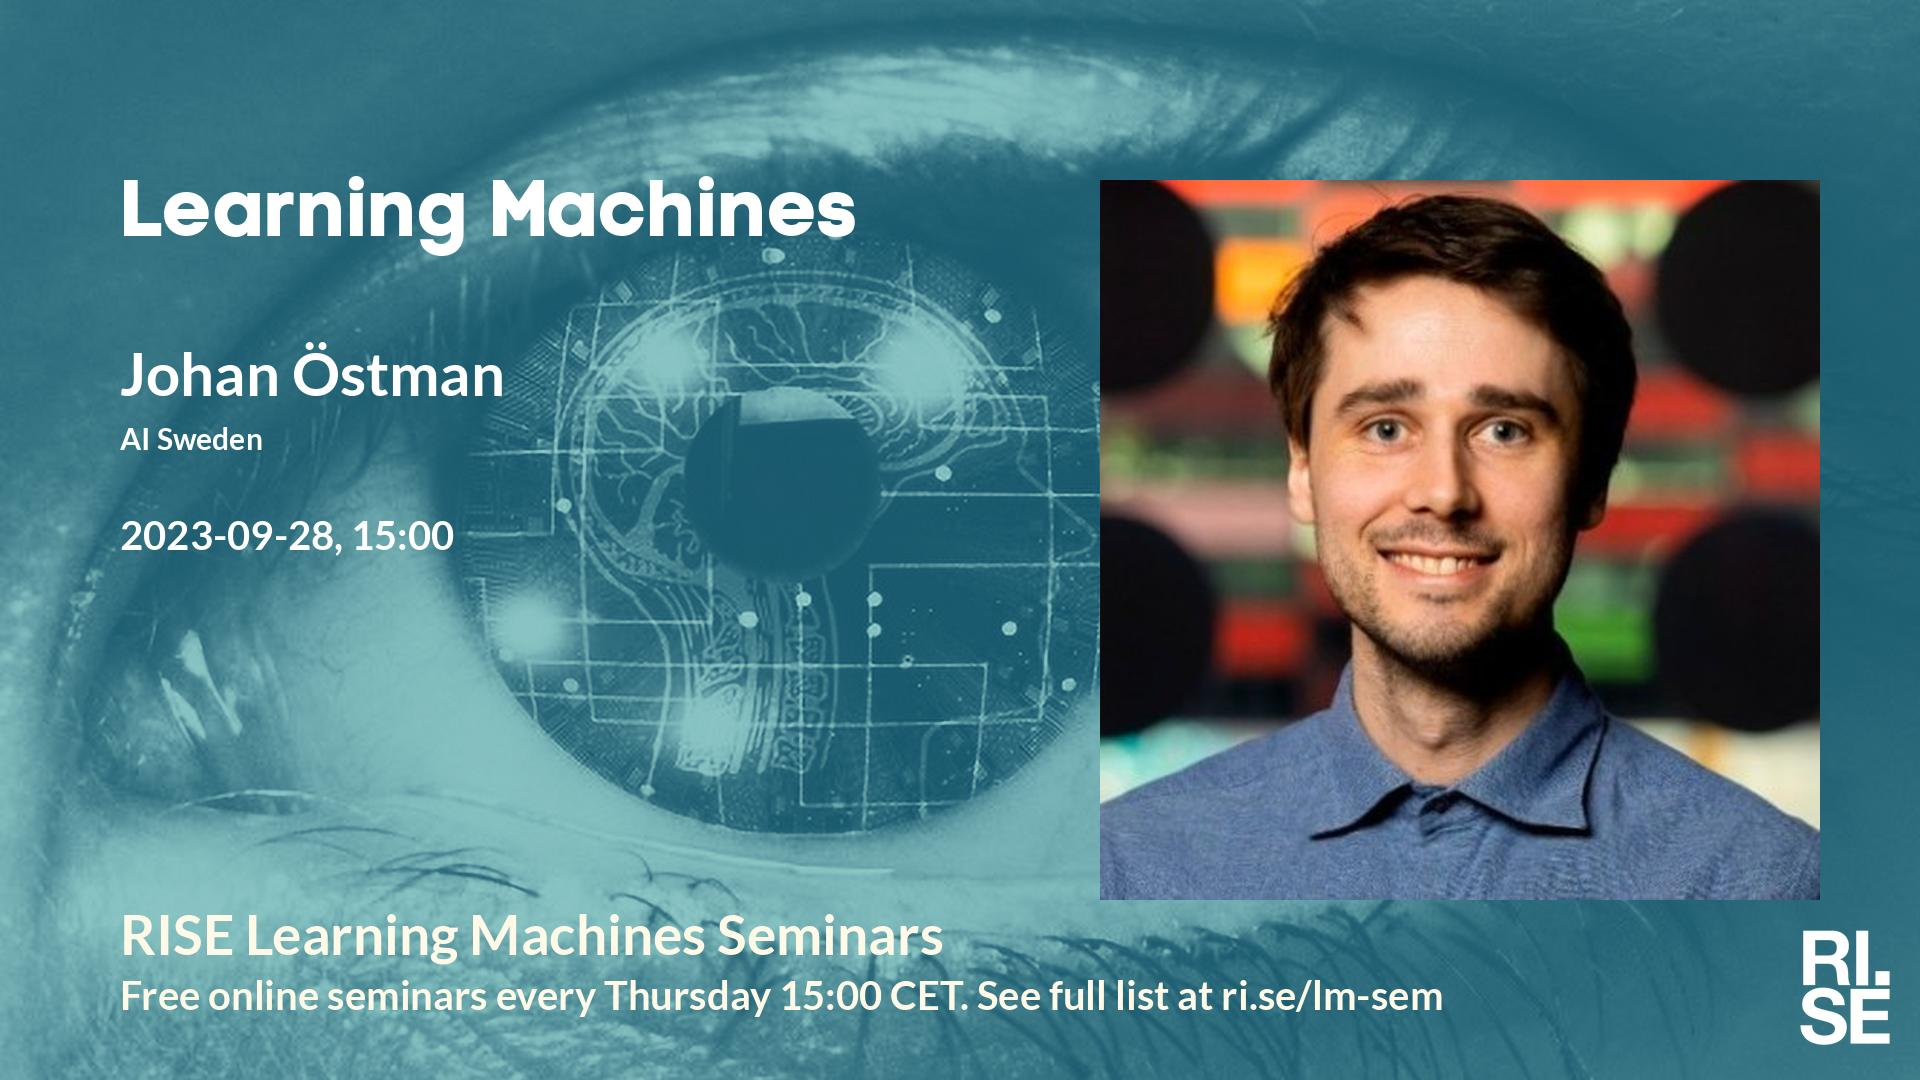
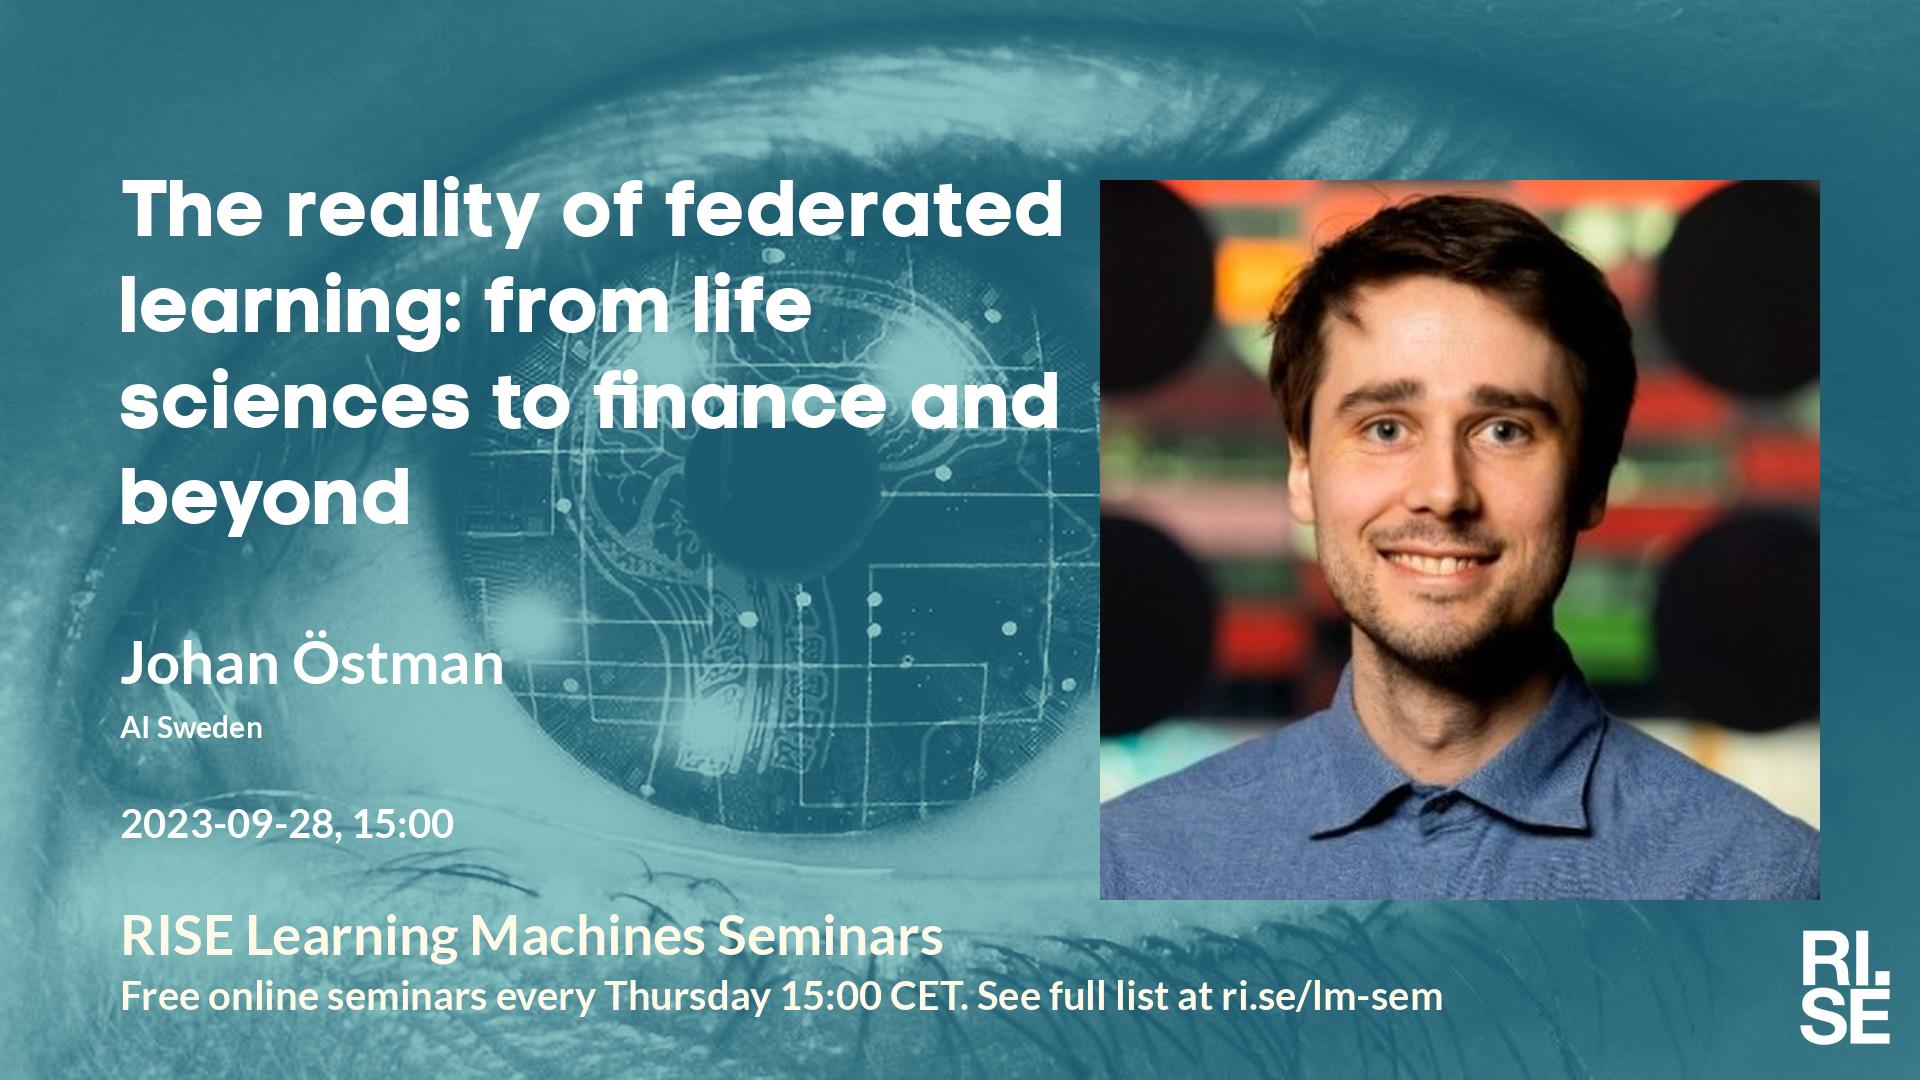
Updated plan on web site.

Changed region(s): [[0.0625, 0.1528, 0.5625, 0.5194], [0.0625, 0.5806, 0.2812, 0.7028], [0.0625, 0.7333, 0.25, 0.7944]]

diff --git a/lm/index.md b/lm/index.md
@@ -5,15 +5,14 @@ metatags: "<meta name=\"robots\" content=\"noindex,nofollow\" />"
 <style type="text/css" scoped>
 td, th {border: 1px solid #ccc; padding: 0.6em;}
 table {border-collapse: collapse;}
-</style># Learning Machines Plan 2023-09-14
+</style># Learning Machines Plan 2023-09-22
 
 | date | speaker                                   | photo | shareable | meeting backdrop | youtube thumbnail | <a title="Speaker, Title, Abstract, Bio, Photo. Strikethrough means we don't have it yet.">comment</a>        |
 | ---- | ----------------------------------------- | ----- | ----- | ----- | ----- | -------------- |
-|  2023-08-31  |  [Zahra Taghiyar Renan, Halmstad University](2023-08-31.md)  |  [photo](photo-zahra-taghiyar-renan.jpg)  |  [social media ](social-media-zahra-taghiyar-renan.jpg)  |  [meeting backdrop ](meeting-backdrop-zahra-taghiyar-renan.jpg)  |  [youtube thumbnail ](youtube-thumbnail-zahra-taghiyar-renan.jpg)  |  STABP  |
 |  2023-09-07  |  [Adam Breitholtz, Chalmers University of Technology](2023-09-07.md)  |    |  [social media ](social-media-adam-breitholtz.jpg)  |  [meeting backdrop ](meeting-backdrop-adam-breitholtz.jpg)  |  [youtube thumbnail ](youtube-thumbnail-adam-breitholtz.jpg)  |  STAB~~P~~  |
 |  2023-09-14  |  [Virginia Smith, CMU](2023-09-14.md)  |  [photo](photo-virginia-smith.jpg)  |  [social media ](social-media-virginia-smith.jpg)  |  [meeting backdrop ](meeting-backdrop-virginia-smith.jpg)  |  [youtube thumbnail ](youtube-thumbnail-virginia-smith.jpg)  |  STABP  |
 |  2023-09-21  |  [Nico Lang, University of Copenhagen](2023-09-21.md)  |  [photo](photo-nico-lang.jpg)  |  [social media ](social-media-nico-lang.jpg)  |  [meeting backdrop ](meeting-backdrop-nico-lang.jpg)  |  [youtube thumbnail ](youtube-thumbnail-nico-lang.jpg)  |  STABP  |
-|  2023-09-28  |  [Johan Östman, AI Sweden](2023-09-28.md)  |  [photo](photo-johan-ostman.jpg)  |  [social media ](social-media-johan-ostman.jpg)  |  [meeting backdrop ](meeting-backdrop-johan-ostman.jpg)  |  [youtube thumbnail ](youtube-thumbnail-johan-ostman.jpg)  |  S~~TAB~~P  |
+|  2023-09-28  |  [Johan Östman, AI Sweden](2023-09-28.md)  |  [photo](photo-johan-ostman.jpg)  |  [social media ](social-media-johan-ostman.jpg)  |  [meeting backdrop ](meeting-backdrop-johan-ostman.jpg)  |  [youtube thumbnail ](youtube-thumbnail-johan-ostman.jpg)  |  STABP  |
 |  2023-10-05  |  [Klaus-Robert Müller, TU Berlin](2023-10-05.md)  |  [photo](photo-klaus-robert-muller.jpg)  |  [social media ](social-media-klaus-robert-muller.jpg)  |  [meeting backdrop ](meeting-backdrop-klaus-robert-muller.jpg)  |  [youtube thumbnail ](youtube-thumbnail-klaus-robert-muller.jpg)  |  STABP  |
 | <span style="color:grey"> 2023-10-12 </span> | <span style="color:grey"> Liane G. ? Silvia Z. ? Giulio B. ? </span> | <span style="color:grey">  </span> | <span style="color:grey">  </span> | <span style="color:grey">  </span> | <span style="color:grey">  </span> | <span style="color:grey"> ?~~TABP~~ </span> |
 |  2023-10-19  |  [Valentin De Bortoli, Google Deepmind](2023-10-19.md)  |  [photo](photo-valentin-de-bortoli.jpg)  |  [social media ](social-media-valentin-de-bortoli.jpg)  |  [meeting backdrop ](meeting-backdrop-valentin-de-bortoli.jpg)  |  [youtube thumbnail ](youtube-thumbnail-valentin-de-bortoli.jpg)  |  S~~TAB~~P  |

diff --git a/lm/2023-09-28.md b/lm/2023-09-28.md
@@ -4,13 +4,19 @@ metatags: "<meta name=\"robots\" content=\"noindex,nofollow\" />"
 ---
 Welcome to this week's Learning Machines seminar.
 
-**Title:** N/A
+**Title:** The reality of federated learning: from life sciences to finance and beyond
 
 **Speaker:** Johan Östman, AI Sweden
 
-**Abstract:** N/A
+**Abstract:** Federated learning is a machine learning paradigm that promises to revolutionize how organizations collaborate on sensitive tasks. At its core, this technique allows multiple participants to collaboratively train a shared model while keeping their data localized, thereby avoiding data centralization. This approach is particularly relevant in today's data-sensitive world, offering both improved data utilization and a gateway to novel applications that respect individual privacy concerns. The vast potential of federated learning is highlighted by its applicability across multiple industries. In the realm of life sciences, for example, it allows for the fusion of insights from disparate healthcare databases while preserving the privacy of individual patient data. Similarly, the finance sector can harness its power to collaboratively devise fraud detection models, without compromising transactional details of their clients.
 
-**About the speaker:** N/A
+However, as with any emerging technology, federated learning is not without its challenges and recent studies hint at underlying vulnerabilities. Examples include, data inference attacks, where individual data points are identified even without direct access to the data source, uneven benefits among clients, making the business use case especially intricate, and its susceptibility to malicious attacks, where the trained model may be manipulated for malicious objectives.
+
+In this presentation, I will discuss the potential of federated learning from the perspective of different sectors and dissect the challenges that stand in its path. I will also discuss potential strategies and remedies to navigate these hurdles.
+
+**About the speaker:** 
+Johan Östman received his PhD in Information Theory in 2020 from Chalmers University of Technology. 
+He has been active within the autonomous driving industry since 2020 and has been engaging in privacy-preserving machine learning since 2021. He is currently leading the research initiatives at AI Sweden within privacy-preserving machine learning, closely collaborating with organisations such as Chalmers, ESA, AstraZeneca, and RISE. He is the project initiator and principal investigator in a project on federated learning to combat anti-money laundering together with two of the largest banks in Sweden.
 
 **Location:** RISE Gothenburg Office (Arvid Hedvalls backe 4), or online using Zoom.
 
